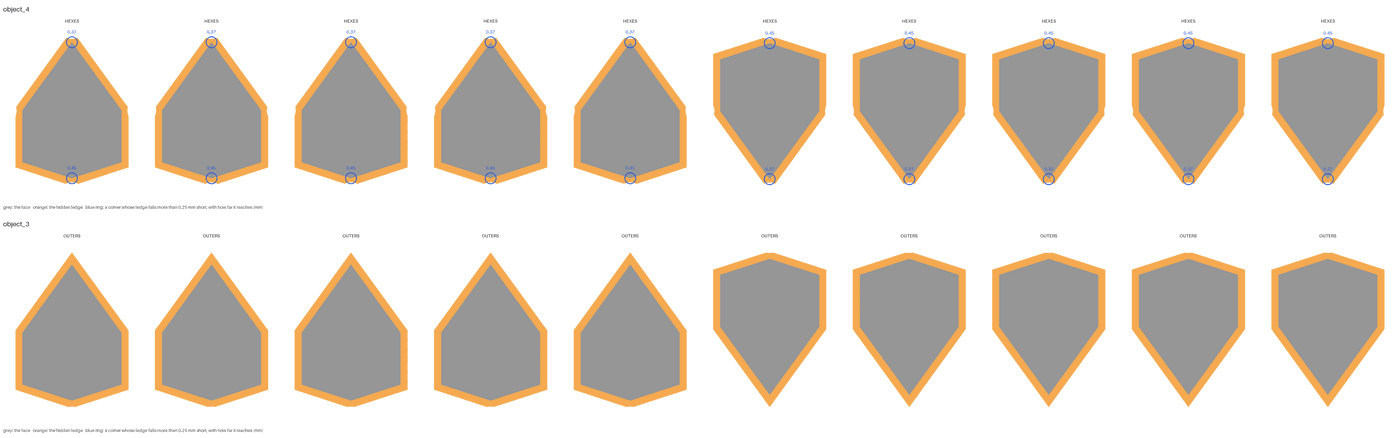
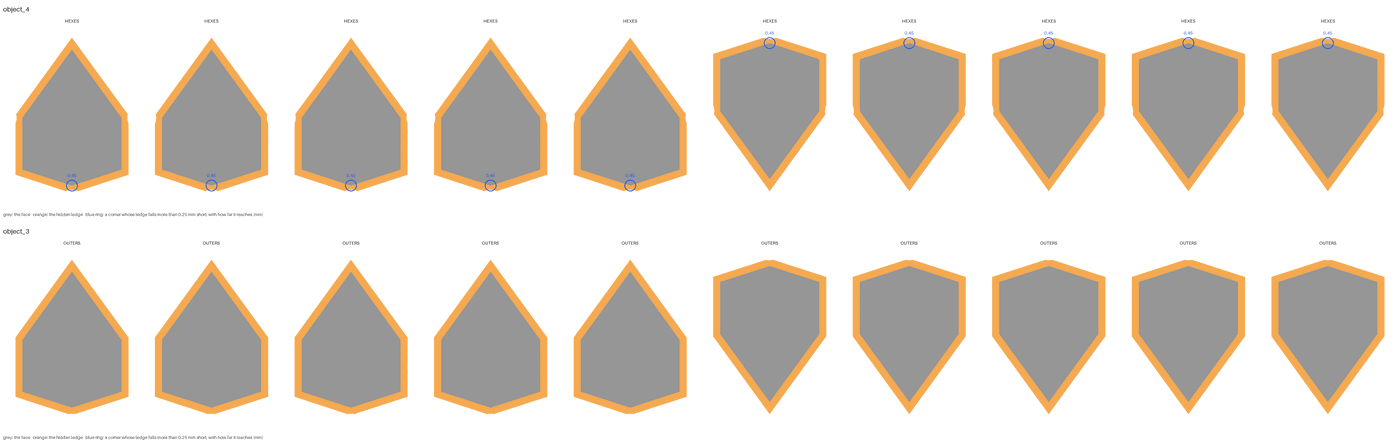
split-07: move the inner pin ring to 13.0 mm, off the hex pieces' points (iteration 2) (#790)
At 14.3 mm the disc round each inner pin sat on the hex pieces' points,
which bikar refuses for the cut pieces (D-120). At 13.0 mm the points keep
their whole 0.80 mm ledge; only the blunt end is bitten (0.45 mm). Sliced
again: 113 min, 31.44 g. Pictures redrawn. Backlog: steps (a) and (b) of the
cut pieces merged, and a line for the lopsided bigger kites.

Claude-Session: https://claude.ai/code/session_01WeTHrCWsKa9pjDBJpfTez7

diff --git a/docs/design/plates/split-07.md b/docs/design/plates/split-07.md
@@ -1,7 +1,7 @@
 ---
 plate: split-07
 recipe: split-07.yaml
-iteration: 1
+iteration: 2
 stage: proposed
 times_printed: 0
 runs: []
@@ -12,7 +12,7 @@ bets: []
 unblocks:
   - "D-119: the flange coaster's socket wall is 0.7 mm (its reversal, if the whole coaster shakes or cracks)"
   - "the flange coaster as a production plate (D-098: one run kept as laid out)"
-minutes: 116
+minutes: 113
 grams: 31
 bed_plates: 1
 risk: watch
@@ -24,13 +24,14 @@ pictures:
 
 # split-07 — the whole flange coaster with a 0.7 mm socket wall
 
-![The whole lower half of the flange coaster from above, grey, with its 40 pins of 1.2 mm as white squares in four rings of ten: between the small kites, between the bigger kites, between the stars, and on the outer points](split-07-media/pins.png)
+![The whole lower half of the flange coaster from above, grey, with its 40 pins of 1.2 mm as white squares in four rings of ten: round the middle star, between the bigger kites, between the stars, and on the outer points](split-07-media/pins.png)
 
 **In short.** On [split-08](split-08.md) you tried three walls round each pin's socket and said "the
 middle one was the best one, 1c i think" and "left ond did (1a shook)". So the 0.9 mm wall that
 [split-06](split-06.md) printed shook, and 0.7 mm was the best
 ([D-119](../../working-model/decisions-log.md#d-119--the-flange-coasters-socket-wall-is-07-mm)).
-This plate is split-06 again, the whole coaster with no labels, with that one change. The plate is
+This plate is split-06 again, the whole coaster with no labels, with that wall, and one ring of pins
+moved 1.3 mm in so it no longer sits on the hex pieces' points. The plate is
 [`split-07.yaml`](split-07.yaml).
 
 ## What it is
@@ -42,15 +43,19 @@ and every kite, hex piece, star and outer piece.
 |---|---|---|
 | Wall round each pin socket | 0.9 mm | **0.7 mm** |
 | Disc round each pin (radius) | 1.625 mm | **1.425 mm** |
-| Pins | 40, 1.2 mm, 0.25 mm play, in four rings | the same |
+| Pins | 40, 1.2 mm, 0.25 mm play, in four rings | the same, the inner ring at 13.0 mm, not 14.3 |
 | Piece gap | 0.10 mm, kites 0.12 | the same |
 | Labels | none | none |
 
-- **The pins stand where split-06's stand**: rings at 14.3, 25.1, 33.5 and 54.4 mm, ten in each.
-- **The disc still bites the hex pieces' ledges, but less.** On split-08's 0.7 mm set the hex
-  piece's point kept 0.37 mm of its 0.80 mm ledge, where split-06 kept 0.17, and the outer pieces
-  kept all of theirs. The recipe says the bite is by design, so the send's ledge check lets it
-  through.
+- **The pins stand where split-06's stand, but for the inner ring**: rings at 13.0, 25.1, 33.5
+  and 54.4 mm, ten in each. The inner ring was at 14.3 mm, where the disc round each pin sat on
+  the point of a hex piece. bikar refuses that for the cut pieces you picked (cut pieces with pins
+  and slides, [D-120](../../working-model/decisions-log.md)), because a point is too thin to lose
+  its ledge. At 13.0 mm the ring is clear of the points with 0.3 mm to spare.
+- **The disc still bites the hex pieces' blunt end, but nothing else.** Each hex piece's point now
+  keeps its whole 0.80 mm ledge (it kept 0.37 before the ring moved, and 0.17 on split-06). The
+  blunt end keeps 0.45 mm, as on split-08's 0.7 mm set. The recipe says the bite is by design, so
+  the send's ledge check lets it through.
 - Setting 8 on every piece, room 0.2, bosses on: all as split-06.
 
 **The color is picked at the send**: say it with the yes.
@@ -59,7 +64,8 @@ and every kite, hex piece, star and outer piece.
 
 - **"go" meant build this plate.** You said it after split-08's verdicts; if you meant something
   else, say so.
-- **The pins stay where they are.** split-08 did not test moving them, and 0.7 did not shake.
+- **The pins stay where they are, but for the inner ring.** split-08 did not test moving them,
+  and 0.7 did not shake. The inner ring moved only because the cut pieces need it off the points.
 - **0.7, not 0.45.** The 0.45 set did not shake either, but you picked 0.7, and nobody checked yet
   whether the one-line walls hold when pressed.
 - **Sliced for the gold Textured PEI plate**, the one Bambu Studio is set to. It is sliced again
@@ -74,13 +80,13 @@ Each piece's face is grey, its hidden ledge orange, and each corner whose ledge 
 
 | Pieces | What the check found |
 |---|---|
-| The 10 hex pieces | the point reaches 0.37 mm, the blunt end 0.45 mm, the sides the whole 0.80: split-08's 0.7 mm set exactly |
+| The 10 hex pieces | the blunt end reaches 0.45 mm; the point and the sides the whole 0.80 |
 | The 10 outer pieces | 0.80 mm all round |
 | The stars, the kites, the middle | 0.77 to 0.80 mm all round |
 
 The picture shows the two groups the pins sit near: the hex pieces on top, the outer pieces below.
 
-![Top row: the ten hex pieces, each ringed blue at its point (0.37) and its blunt end (0.45). Bottom row: the ten outer pieces with an even orange ledge all round and no rings](split-07-media/ledges.png)
+![Top row: the ten hex pieces, each ringed blue at its blunt end (0.45) only, the point's ledge whole. Bottom row: the ten outer pieces with an even orange ledge all round and no rings](split-07-media/ledges.png)
 
 ## Why print it
 
@@ -97,7 +103,7 @@ the answer does not cover them.
 | Pieces | The question | What we expect, and why | What each answer changes |
 |---|---|---|---|
 | The whole coaster, put together | **Do:** Put every piece in the lower half, close the upper half on its pins and pinch it all the way round, then shake it. **Look for:** Is it a coaster you would keep as it is? If not, what is wrong? | Flush round the outside, no shake: split-08's 0.7 mm set did not shake. | Keep: it becomes the production plate. Not kept: what is wrong decides the next change. |
-| The hex and outer pieces | **Do:** Push each hex piece and each outer piece side to side with a fingertip in the closed coaster. **Look for:** Snug, or do some wiggle? Which ones? | Snug: the 0.7 mm wall halves the bite at the hex point and leaves the outer pieces whole. | Snug: 0.7 mm stays. The hex pieces wiggle: try 0.45 mm, or move the pins off the points. |
+| The hex and outer pieces | **Do:** Push each hex piece and each outer piece side to side with a fingertip in the closed coaster. **Look for:** Snug, or do some wiggle? Which ones? | Snug: the hex points keep their whole ledge now, and the outer pieces theirs. | Snug: 0.7 mm stays. The hex pieces wiggle: try 0.45 mm, or move the pins off the points. |
 | The bigger kites | **Do:** Lay two bigger kites side by side, and look at each against its neighbours in the closed coaster. **Look for:** Do they match? If one is lopsided, which side? | They match: as drawn the pieces are mirror-symmetric. | Match: nothing to change. Lopsided: a photo with the side marked, to find where the print differs from the drawing. |
 | The sockets, pressed | **Do:** Press hard over each ring of pins, then pull the halves apart. **Look for:** Does each pin stay in its socket and the halves stay shut? | All hold, as on split-08's 0.7 mm set. | All hold: 0.7 mm stays. A socket lets go: the wall is too thin there. |
 | Round each socket | **Do:** Look at the wall round each socket on the upper half, before and after pressing, against the light. **Look for:** Any split, crack or broken wall? | Whole: 0.7 mm is nearly two lines. | Whole: 0.7 mm stands. Cracked: back to 0.9 at those rings, or move the pins. |
@@ -116,7 +122,7 @@ The bed, from above, as the slice lays it out, each piece named. Drawn from the 
 
 ## Cost and risk
 
-**About 116 minutes and 31 g of PLA** (the slicer's estimate, 6987 s and 31.45 g), one bed, no
+**About 113 minutes and 31 g of PLA** (the slicer's estimate, 6801 s and 31.44 g), one bed, no
 prime tower, one color.
 
 **Risk: watch.** As on split-06: each band sticks out 0.8 mm with nothing under it and may droop,
@@ -144,3 +150,5 @@ Every yes or hold Omar gives this plate, one row each, oldest first (D-096). A t
 |---|---|---|
 | 2026-10-25 | proposed: after split-08's print, on Omar's verdicts ("the middle one was the best one, 1c i think", "left ond did (1a shook)") and his "go"; split-06 with a 0.7 mm socket wall (D-119) | this page |
 | 2026-10-25 | sliced — for the gold Textured PEI plate, 7 objects, no slicer warnings: 6987 s and 31.45 g | this page |
+| 2026-10-25 | changed (iteration 2): the inner ring of pins moved from 14.3 to 13.0 mm, off the hex pieces' points, so the cut pieces (D-120) can be built to fit this coaster; the yes not yet given, so none to reset | [`split-07.yaml`](split-07.yaml) |
+| 2026-10-25 | sliced — for the gold Textured PEI plate, 7 objects, no slicer warnings: 6801 s and 31.44 g; the hex points' ledges whole, the blunt end 0.45 mm | this page |

diff --git a/docs/tasks/coaster-pipeline/backlog.md b/docs/tasks/coaster-pipeline/backlog.md
@@ -18,16 +18,21 @@ consturciotn and move back to split coasters and split inflills"), so they come 
    the upper half over; (b) pins on a half, refusing any pin or disc on a piece's point; (c) a slide
    on a half, with the hexagons' notches handled and a slot refused if it leaves under 0.5 mm of
    band. Then one plate with the cut pairs (no join, at split-06's gaps and 0.02 mm looser) beside
-   the joined pairs, and its page. Omar's pick, 2026-10-25.
-2. **Turn a finished print into data** — waits on Omar printing minis-01, or a
+   the joined pairs, and its page. Omar's pick, 2026-10-25. Steps (a) and (b) merged (bikar #346,
+   #347); split-07's inner pin ring moved from 14.3 to 13.0 mm so the pins clear the hex points.
+2. **The bigger kites print lopsided.** Omar, 2026-10-25, on split-08's pieces: "but the bigger
+   kites are still not eymetric". As drawn they are mirror-symmetric, so the difference comes in the
+   slice or the print. Needs a photo with the lopsided side marked (split-07's page asks for it),
+   then a look at the sliced walls of one bigger kite (`tools/fit_gap.py walls`) against the drawing.
+3. **Turn a finished print into data** — waits on Omar printing minis-01, or a
    `bambu print capture` showing up. Then follow the `print-model` skill's compare loop:
    record in `docs/prints/<date>-minis-01/`, settle the CAL-CST bets it measures, update the
    counts in §1 of the register below. Record what was measured, not what was
    expected. (P4.3. minis-01's first print left no answer, 3d-models #629.)
-3. **Keep [minis-01](../../design/plates/minis-01.yaml) ready to send.** Re-compose after any coaster
+4. **Keep [minis-01](../../design/plates/minis-01.yaml) ready to send.** Re-compose after any coaster
    change; slice, preflight and filament-sync against the live AMS trays; check each item's
    bikar pin against bikar main. Stops at the send.
-4. **Tooling that blocks this plate** — fix only friction that stops minis-01. General tooling
+5. **Tooling that blocks this plate** — fix only friction that stops minis-01. General tooling
    goes in the [print-infrastructure backlog](../print-infrastructure/backlog.md), new designs
    in the [catalog backlog](../catalog-expansion/backlog.md).
    - **Check the send payload against one Bambu Studio send.** `bed_type`, `md5`, and the tray
@@ -36,7 +41,7 @@ consturciotn and move back to split coasters and split inflills"), so they come 
      printer config on this machine (`bambu setup doctor` says it is missing) and one send from
      Studio while the request topic is read. Until then, plates go out from Bambu Studio.
      Found by the minis-01 run, 2026-09-25.
-5. **Standard-size plate (P5.2)** — only after item 1 settles the CAL-CST numbers (board #6).
+6. **Standard-size plate (P5.2)** — only after item 3 settles the CAL-CST numbers (board #6).
 
 ## Owner-gated
 

diff --git a/docs/design/plates/README.md b/docs/design/plates/README.md
@@ -34,8 +34,8 @@ Written by `python3 .claude/gates/plates_gate.py --write` from the plate pages a
 | 12 | [swatch-10204](swatch-10204.md) | waiting | 1 | 0.4 | 2.82 | ok | What does PLA Basic Hot Pink (10204) really look like printed: its top, its sheen and its bed face, on a chip and on our own straps? |
 | 13 | [swatch-10501](swatch-10501.md) | waiting | 1 | 0.4 | 2.82 | ok | What does PLA Basic Bambu Green (10501) really look like printed: its top, its sheen and its bed face, on a chip and on our own straps? |
 | 14 | [swatch-10101](swatch-10101.md) | waiting | 1 | 0.4 | 2.82 | ok | What does PLA Basic Black (10101) really look like printed: its top, its sheen and its bed face, on a chip and on our own straps? |
-| 15 | [swatch-13903](swatch-13903.md) | waiting | 1 | 0.4 | 2.68 | ok | What does PLA Silk Neon City (13903) really look like printed: its top, its sheen and its bed face, on a chip and on our own straps? |
-| 16 | [split-07](split-07.md) | proposed | 6 | 2.2 | 2.67 | watch | Does the whole flange coaster, with split-06's 40 pins where they stand and a 0.7 mm wall round each pin socket (split-06 had 0.9 mm), keep its hex and outer pieces snug, close flush all the way round and hold together, so it is a coaster to keep? |
+| 15 | [split-07](split-07.md) | proposed | 6 | 2.2 | 2.74 | watch | Does the whole flange coaster, with split-06's 40 pins where they stand and a 0.7 mm wall round each pin socket (split-06 had 0.9 mm), keep its hex and outer pieces snug, close flush all the way round and hold together, so it is a coaster to keep? |
+| 16 | [swatch-13903](swatch-13903.md) | waiting | 1 | 0.4 | 2.68 | ok | What does PLA Silk Neon City (13903) really look like printed: its top, its sheen and its bed face, on a chip and on our own straps? |
 | 17 | [sheets-01](sheets-01.md) | waiting | 6 | 2.3 | 2.65 | ok | Do the 0.4 mm steps on today's coaster edges show in the hand, and which top (round 1 or the full dome) looks right? |
 | 18 | [minis-06](minis-06.md) | waiting | 8 | 3.8 | 2.11 | ok | How thin can the dovetail band go, and does the new slot fix minis-04's tight pegs? |
 | 19 | [theme-night-sky-11602](theme-night-sky-11602.md) | waiting | 1 | 0.5 | 2.04 | ok | Night sky, one of its 4 plates: do its Hex ×10, Outer ×10 come out as the theme draws them, in PLA Matte Dark Blue (11602)? |
